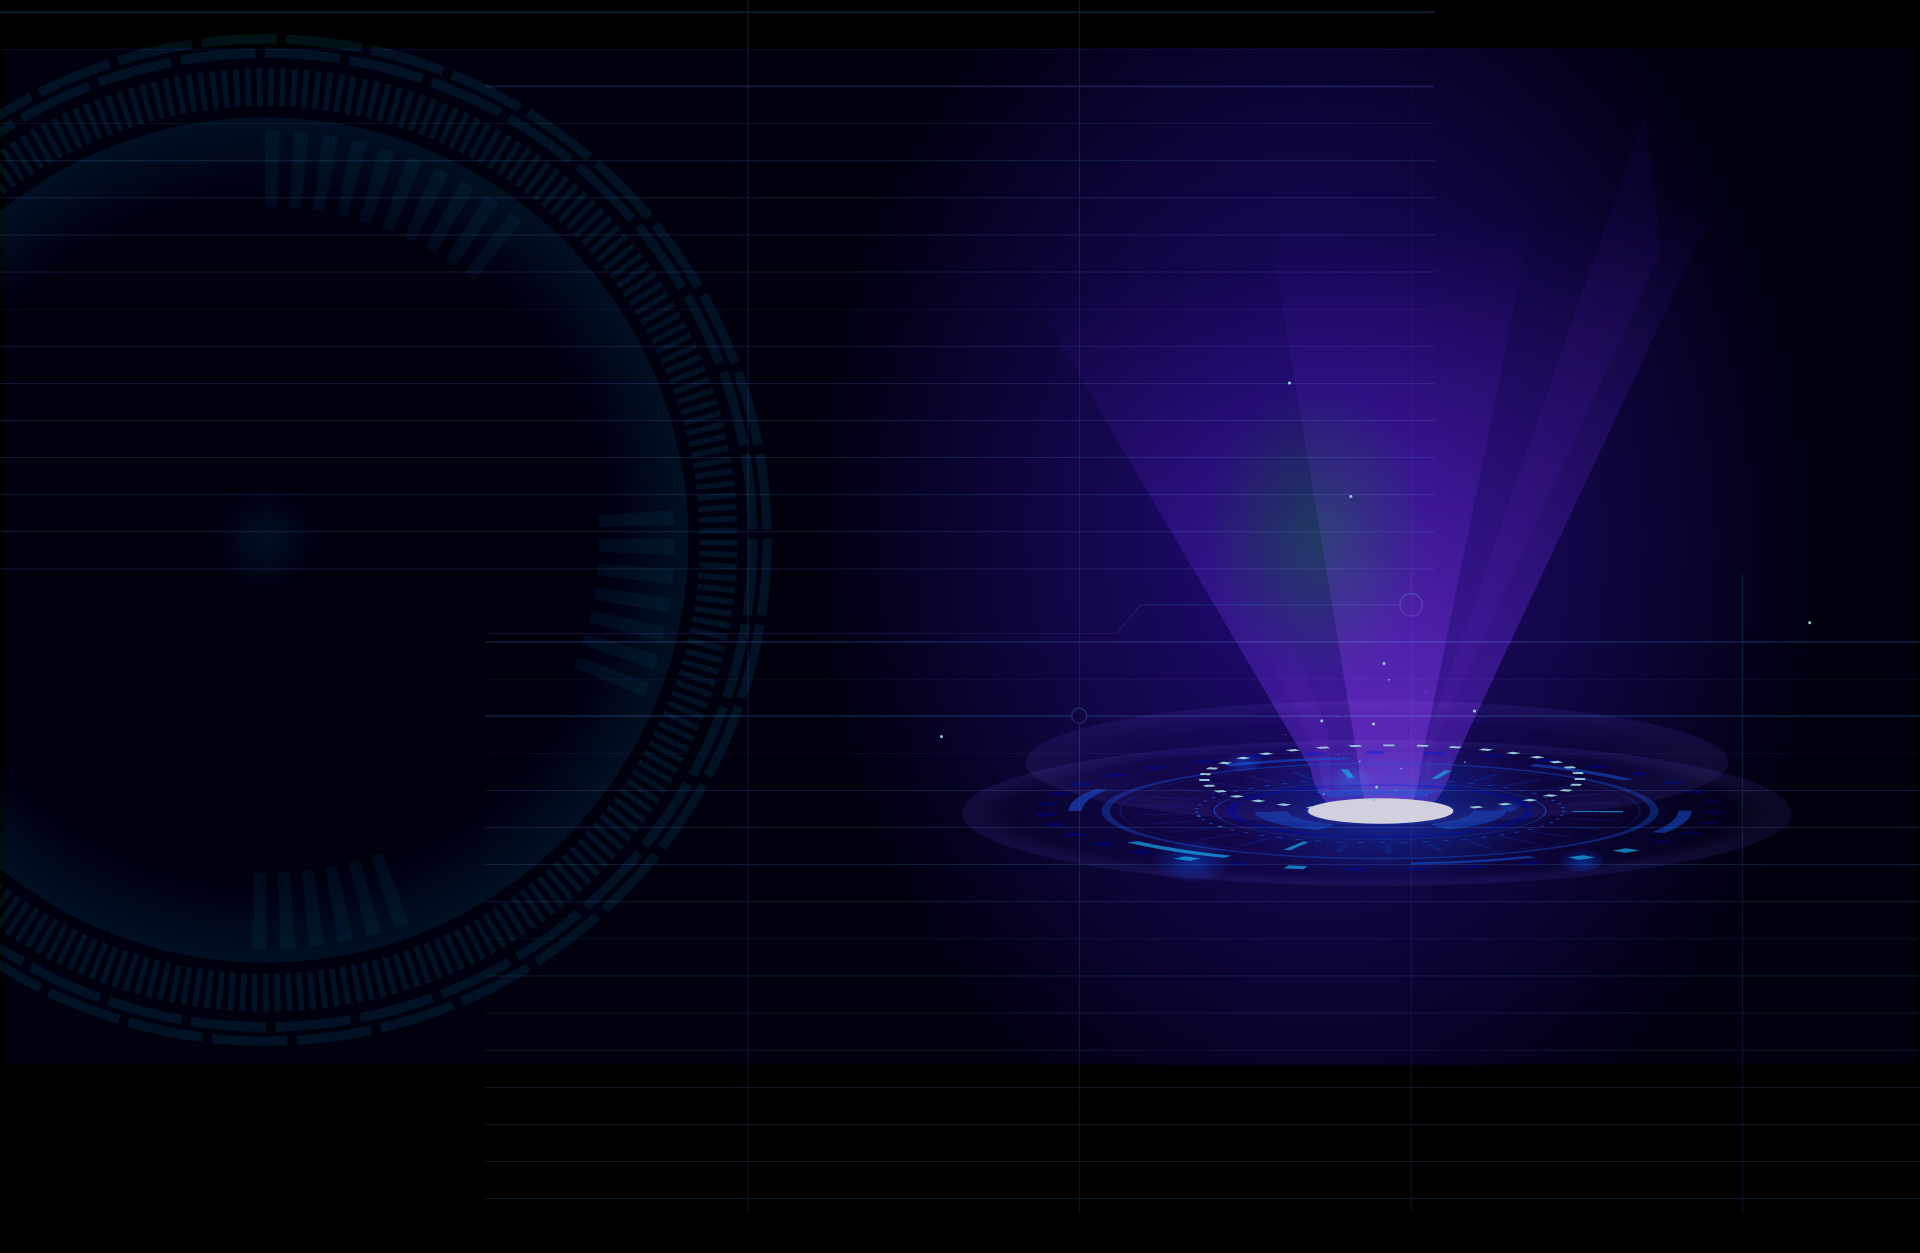
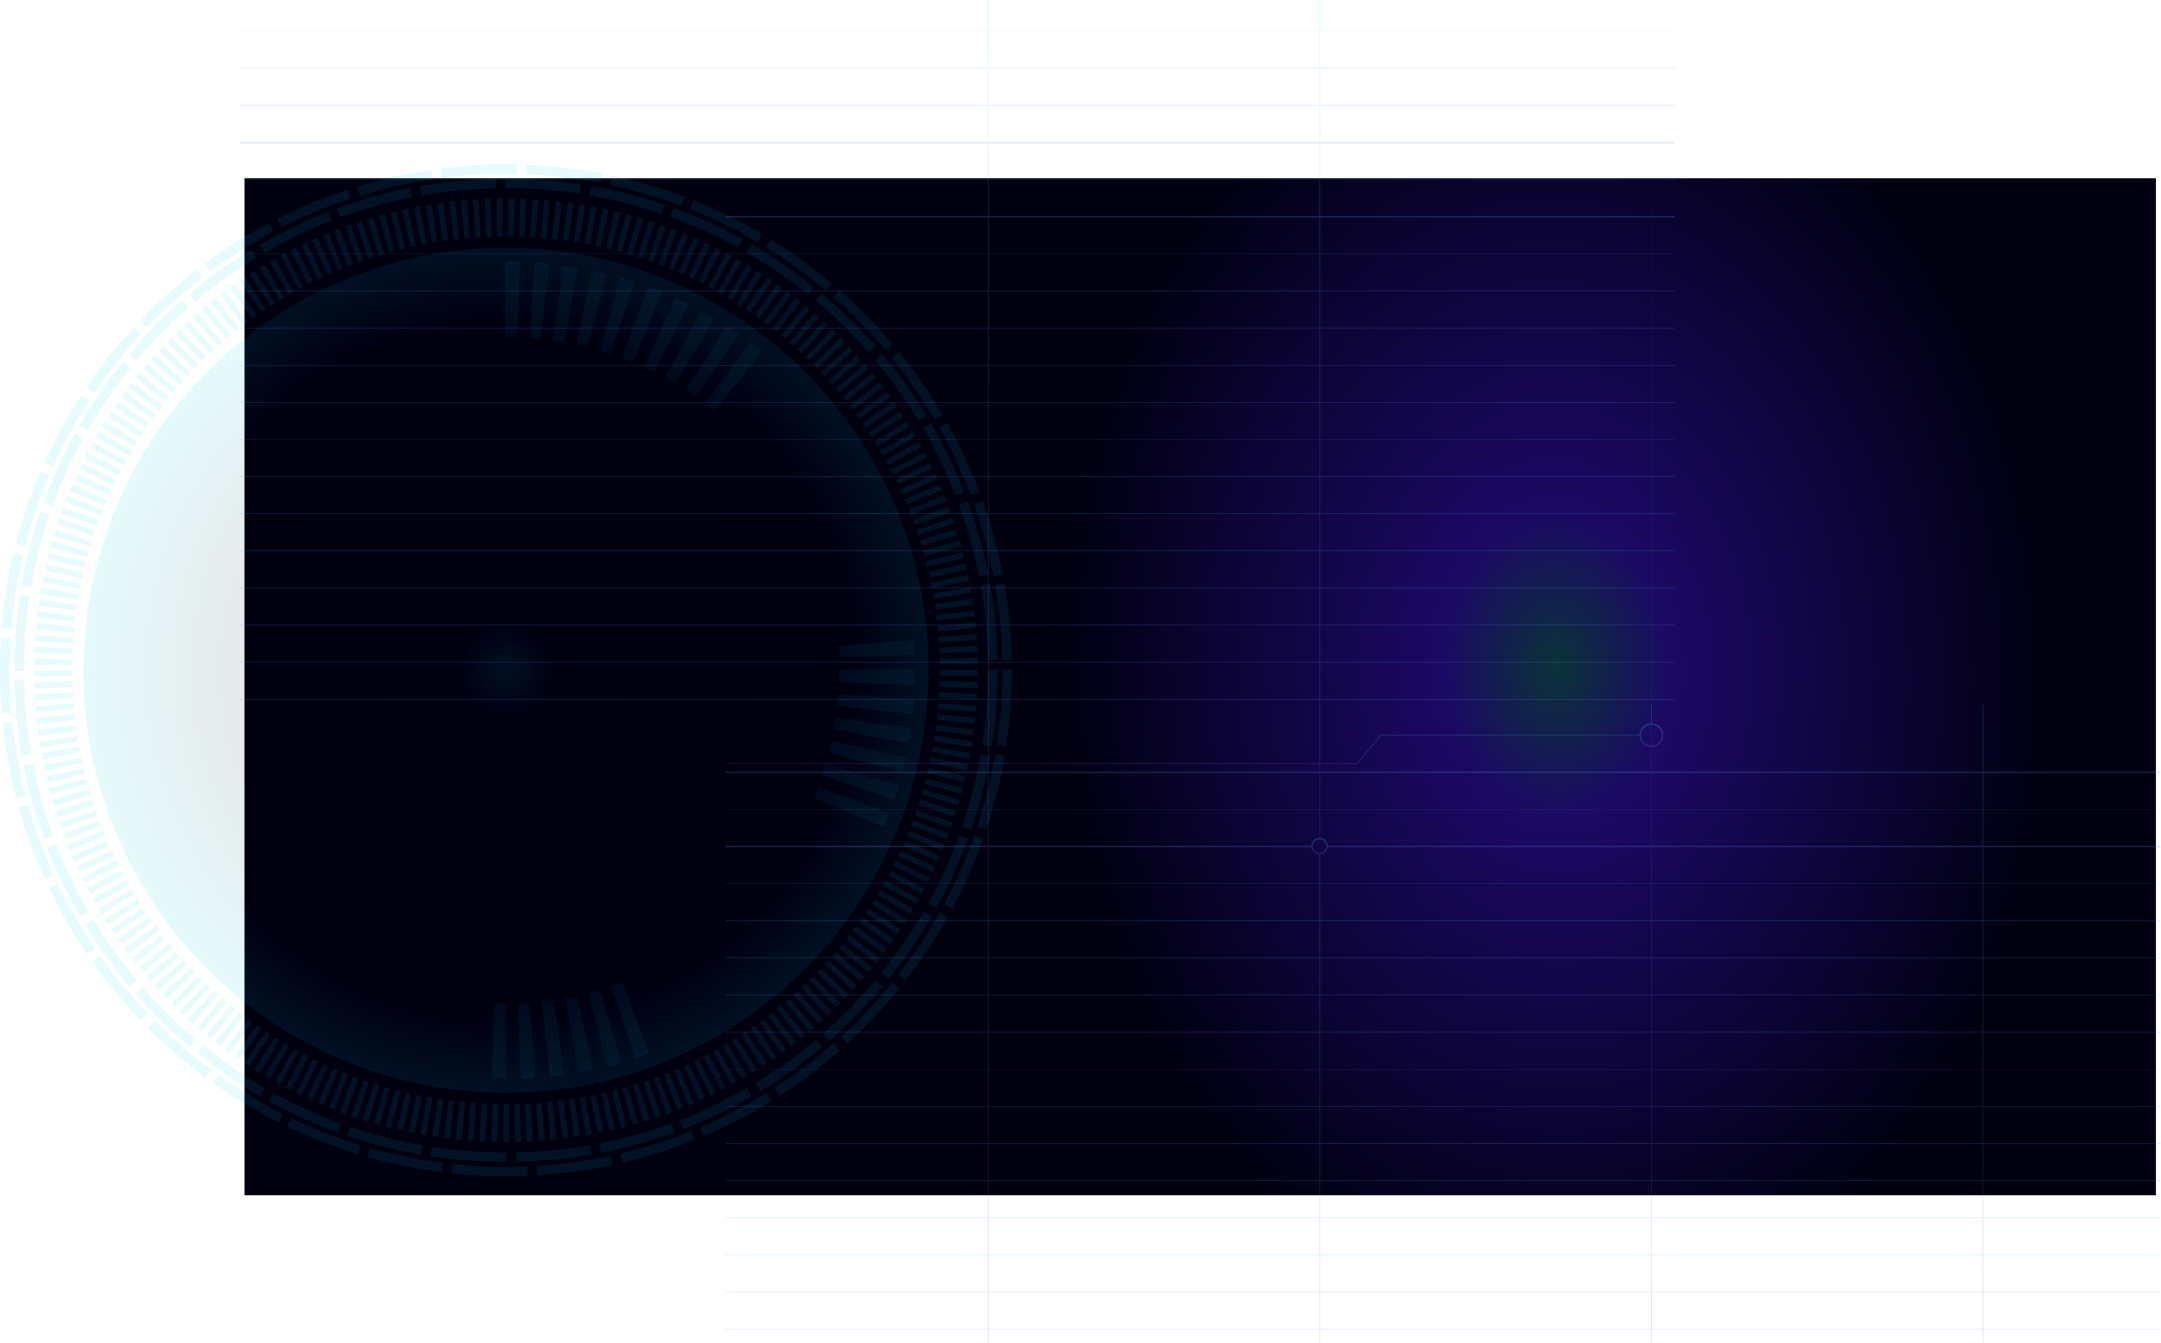
Changes by client

diff --git a/public/css/style.css b/public/css/style.css
@@ -73,7 +73,7 @@ body{font-family: 'Poppins', sans-serif;margin: 0;padding: 86px 0 0;}
     color: #fff;
 } 
 .homeBanner{
-    background: url(../images/homepage/banner.png) 0px -35px no-repeat #000;
+    background: url(../images/homepage/banner1.png) 0px -35px no-repeat #000;
     background-size: cover;
     padding: 100px 0 50px;
     position: relative;
@@ -96,6 +96,24 @@ body{font-family: 'Poppins', sans-serif;margin: 0;padding: 86px 0 0;}
     font-weight: 400;
     margin: 10px 0 30px;
 }
+.bannerImgFlash {
+    position: absolute;
+    right: -130px;
+    bottom: -90%;
+    z-index: 0;
+}
+
+.bannerImgAnimation {
+    position: relative;
+    z-index: 1;
+}
+
+.bannerImgFlash img.bannerRays {
+    max-width: 650px;
+}
+
+
+
 
 .counterNum ul {
     margin: 0;
@@ -387,6 +405,16 @@ body{font-family: 'Poppins', sans-serif;margin: 0;padding: 86px 0 0;}
 .combo{
     padding: 150px 0;
     background: url(../images/homepage/combo_bg.png) 0 0 no-repeat #000;
+    position: relative;
+}
+.comboRays {
+    position: absolute;
+    left: 50%;
+    bottom: 30px;
+    max-width: 350px;
+    transform: translate(-50%);
+    opacity: 1;
+    z-index: 0;
 }
 .comboBx img {
     max-width: 90%;

diff --git a/src/Components/Home/Banner.js b/src/Components/Home/Banner.js
@@ -39,9 +39,9 @@ const HomeBanner = () => {
                     <div className="bannerImgAnimation">
                         <img src={process.env.PUBLIC_URL + '/images/homepage/infinite.svg'} alt="" />
                     </div>
-                    {/* <div className="bannerImgFlash">
-                        <img src={process.env.PUBLIC_URL + '/images/homepage/social/metro-facebook.svg'} alt="" />
-                    </div> */}
+                    <div className="bannerImgFlash">
+                        <img src={process.env.PUBLIC_URL + '/images/rays.svg'} alt="" className="bannerRays" />
+                    </div> 
                 </div>
                 <div className="bannerSocial">
                     <ul className="list-inline">

diff --git a/src/Components/PackDetails.js b/src/Components/PackDetails.js
@@ -1,20 +1,12 @@
-import React from 'react'
+import React,{useEffect} from 'react'
 import { Link } from 'react-router-dom';
-//import Slider from "react-slick";
 import Combo from './Home/Combo';
 
 const PackDetails = () => {
-    // var settings = {
-    //     className: "center",
-    //     centerMode: true,
-    //     infinite: true,
-    //     centerPadding: "60px",
-    //     slidesToShow: 3,
-    //     dots:false,
-    //     autoplay: true,
-    //     nav:false,
-    //     speed: 500
-    // };
+
+    useEffect(() => {
+        window.scrollTo(0, 0)
+      }, [])
     return (
         <React.Fragment>
             <section className="dark customSec pt-4">

diff --git a/src/App.js b/src/App.js
@@ -1,4 +1,4 @@
-import React, { useState } from 'react'
+import React, { useState, useEffect } from 'react'
 import { BrowserRouter as Router, Switch, Route } from "react-router-dom";
 import "slick-carousel/slick/slick.css";
 import "slick-carousel/slick/slick-theme.css";
@@ -27,6 +27,9 @@ const App = () => {
 //     console.log(switcher)
 //     localStorage.setItem('theme', 'dark');
 // }
+useEffect(() => {
+  window.scrollTo(0, 0)
+}, [])
   return (
     <Router>
       <div className="app">

diff --git a/src/Components/Home/Combo.js b/src/Components/Home/Combo.js
@@ -68,6 +68,7 @@ const Combo = (props) => {
                     </Slider>
                 </div>
             </div>
+            <img src={process.env.PUBLIC_URL + '/images/rays.svg'} alt="" className="comboRays" />
         </section>
     )
 }
